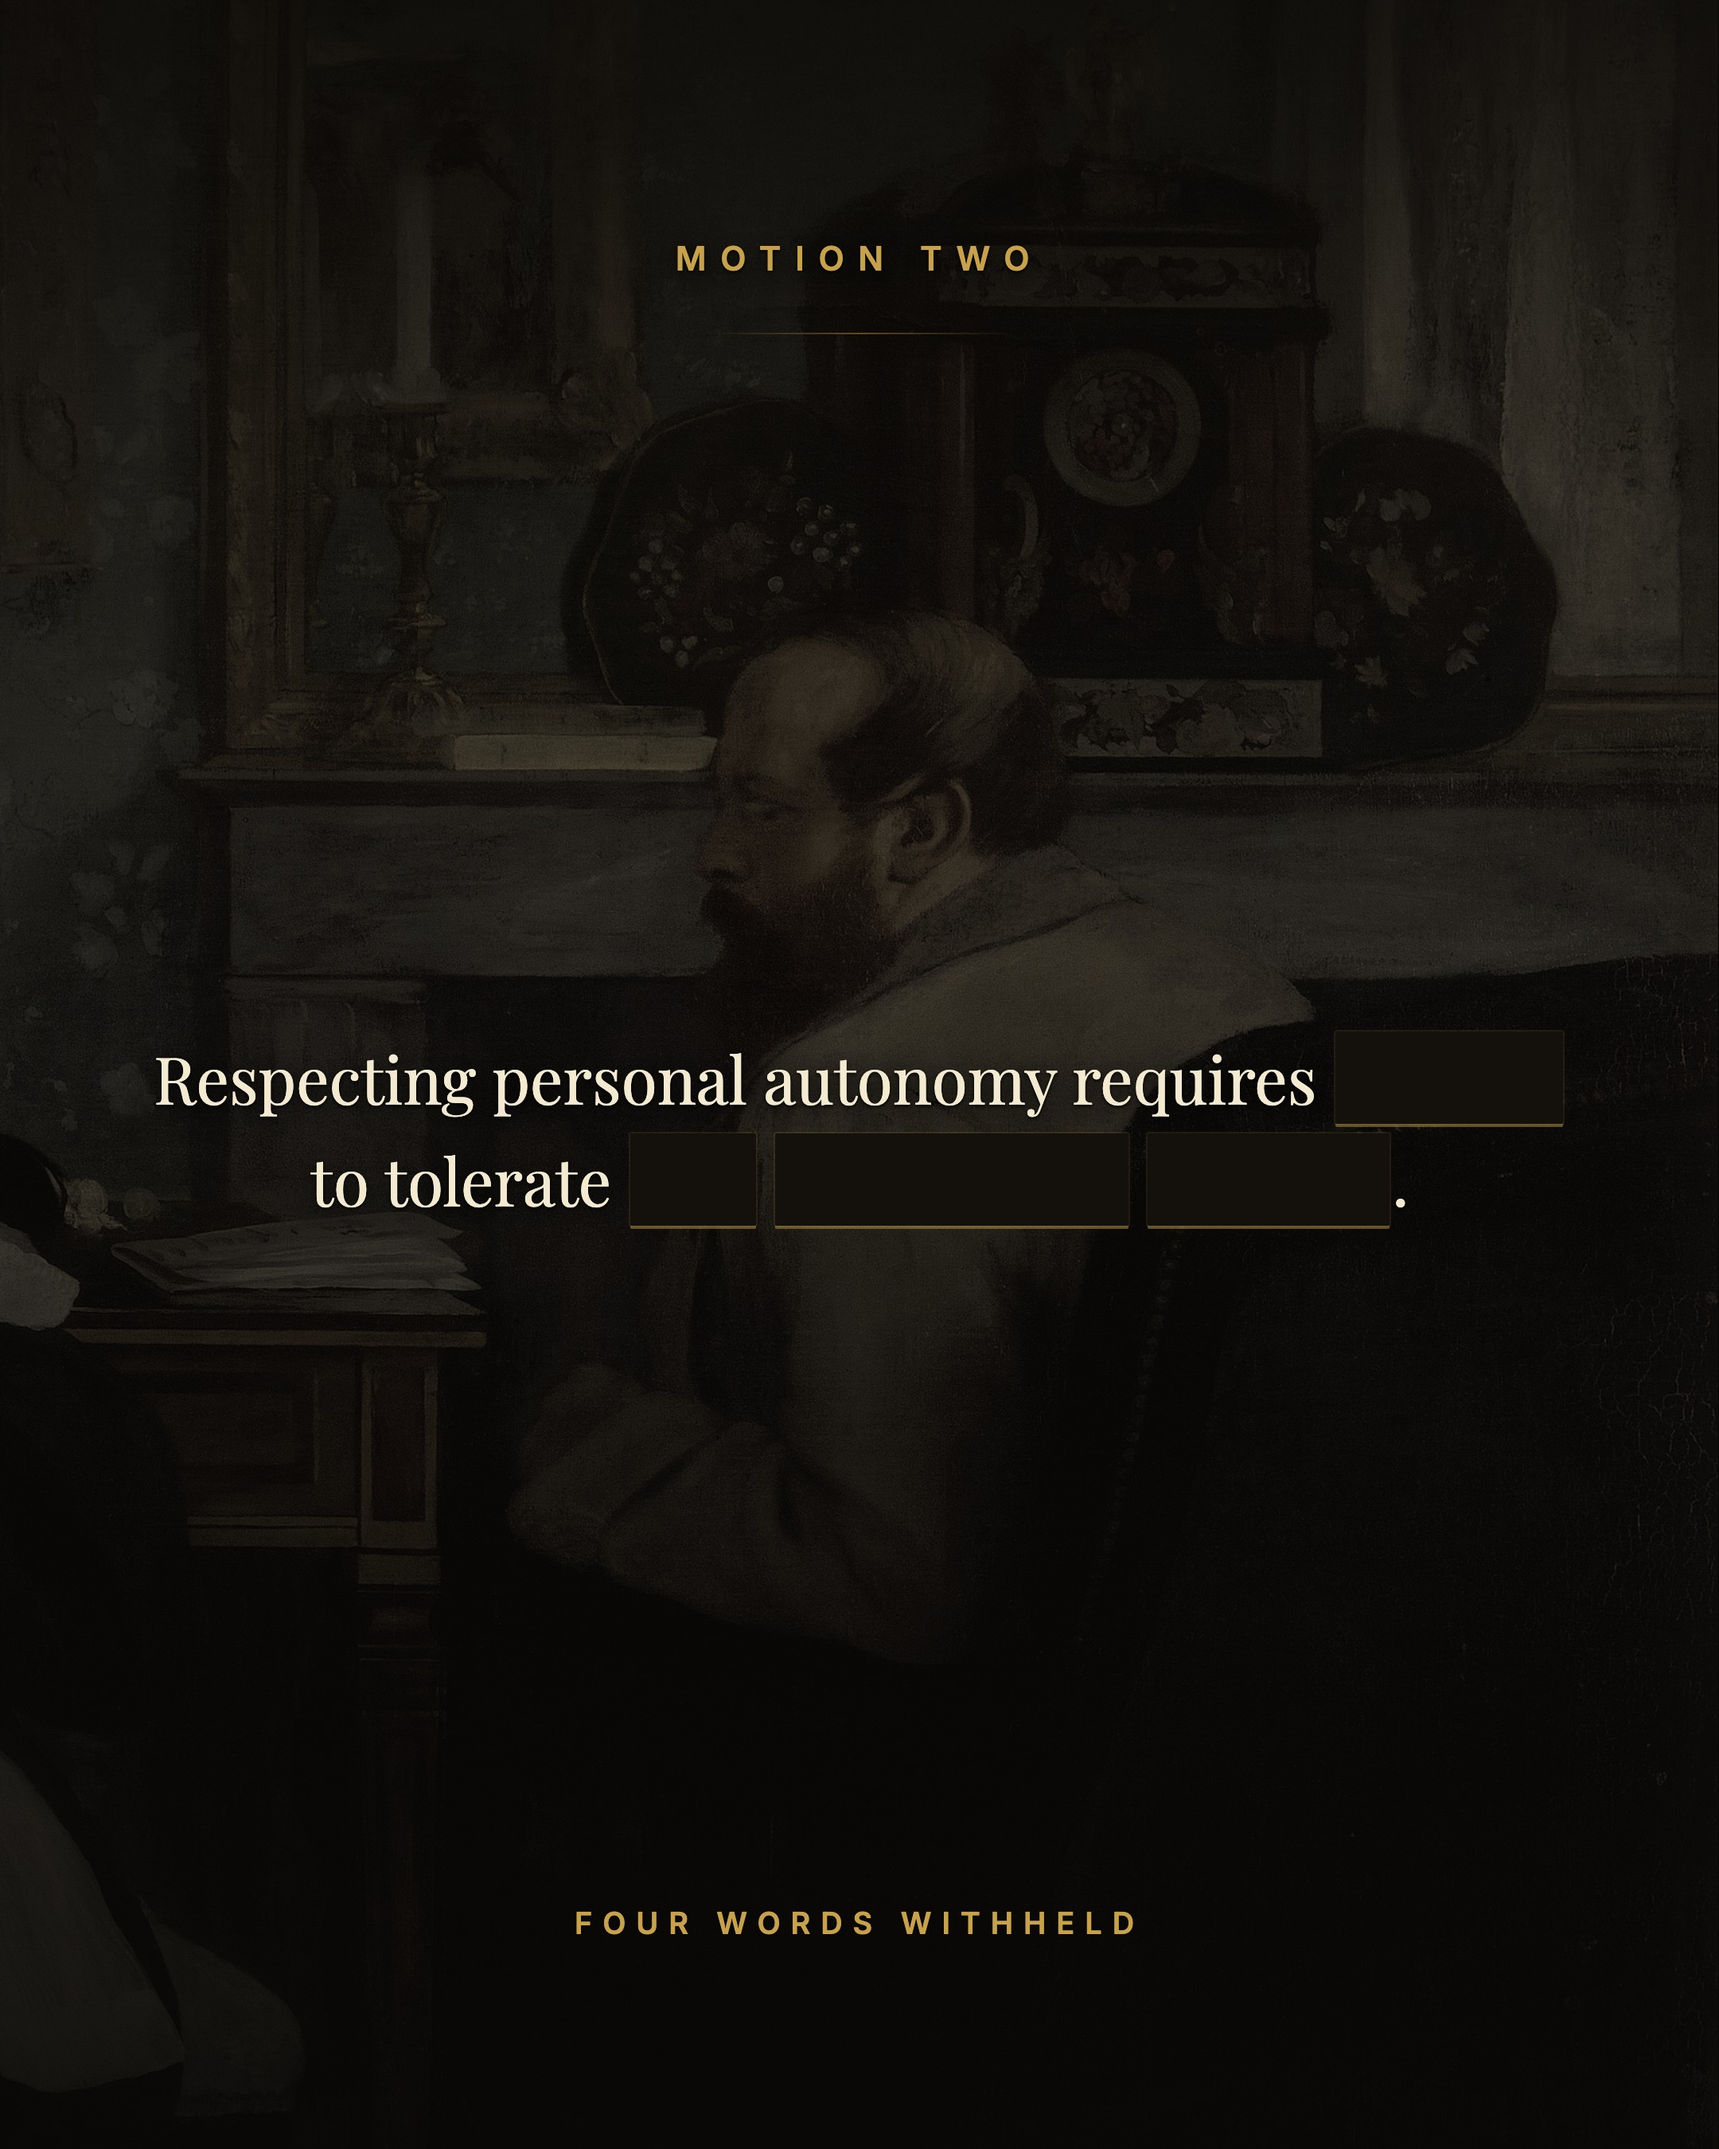
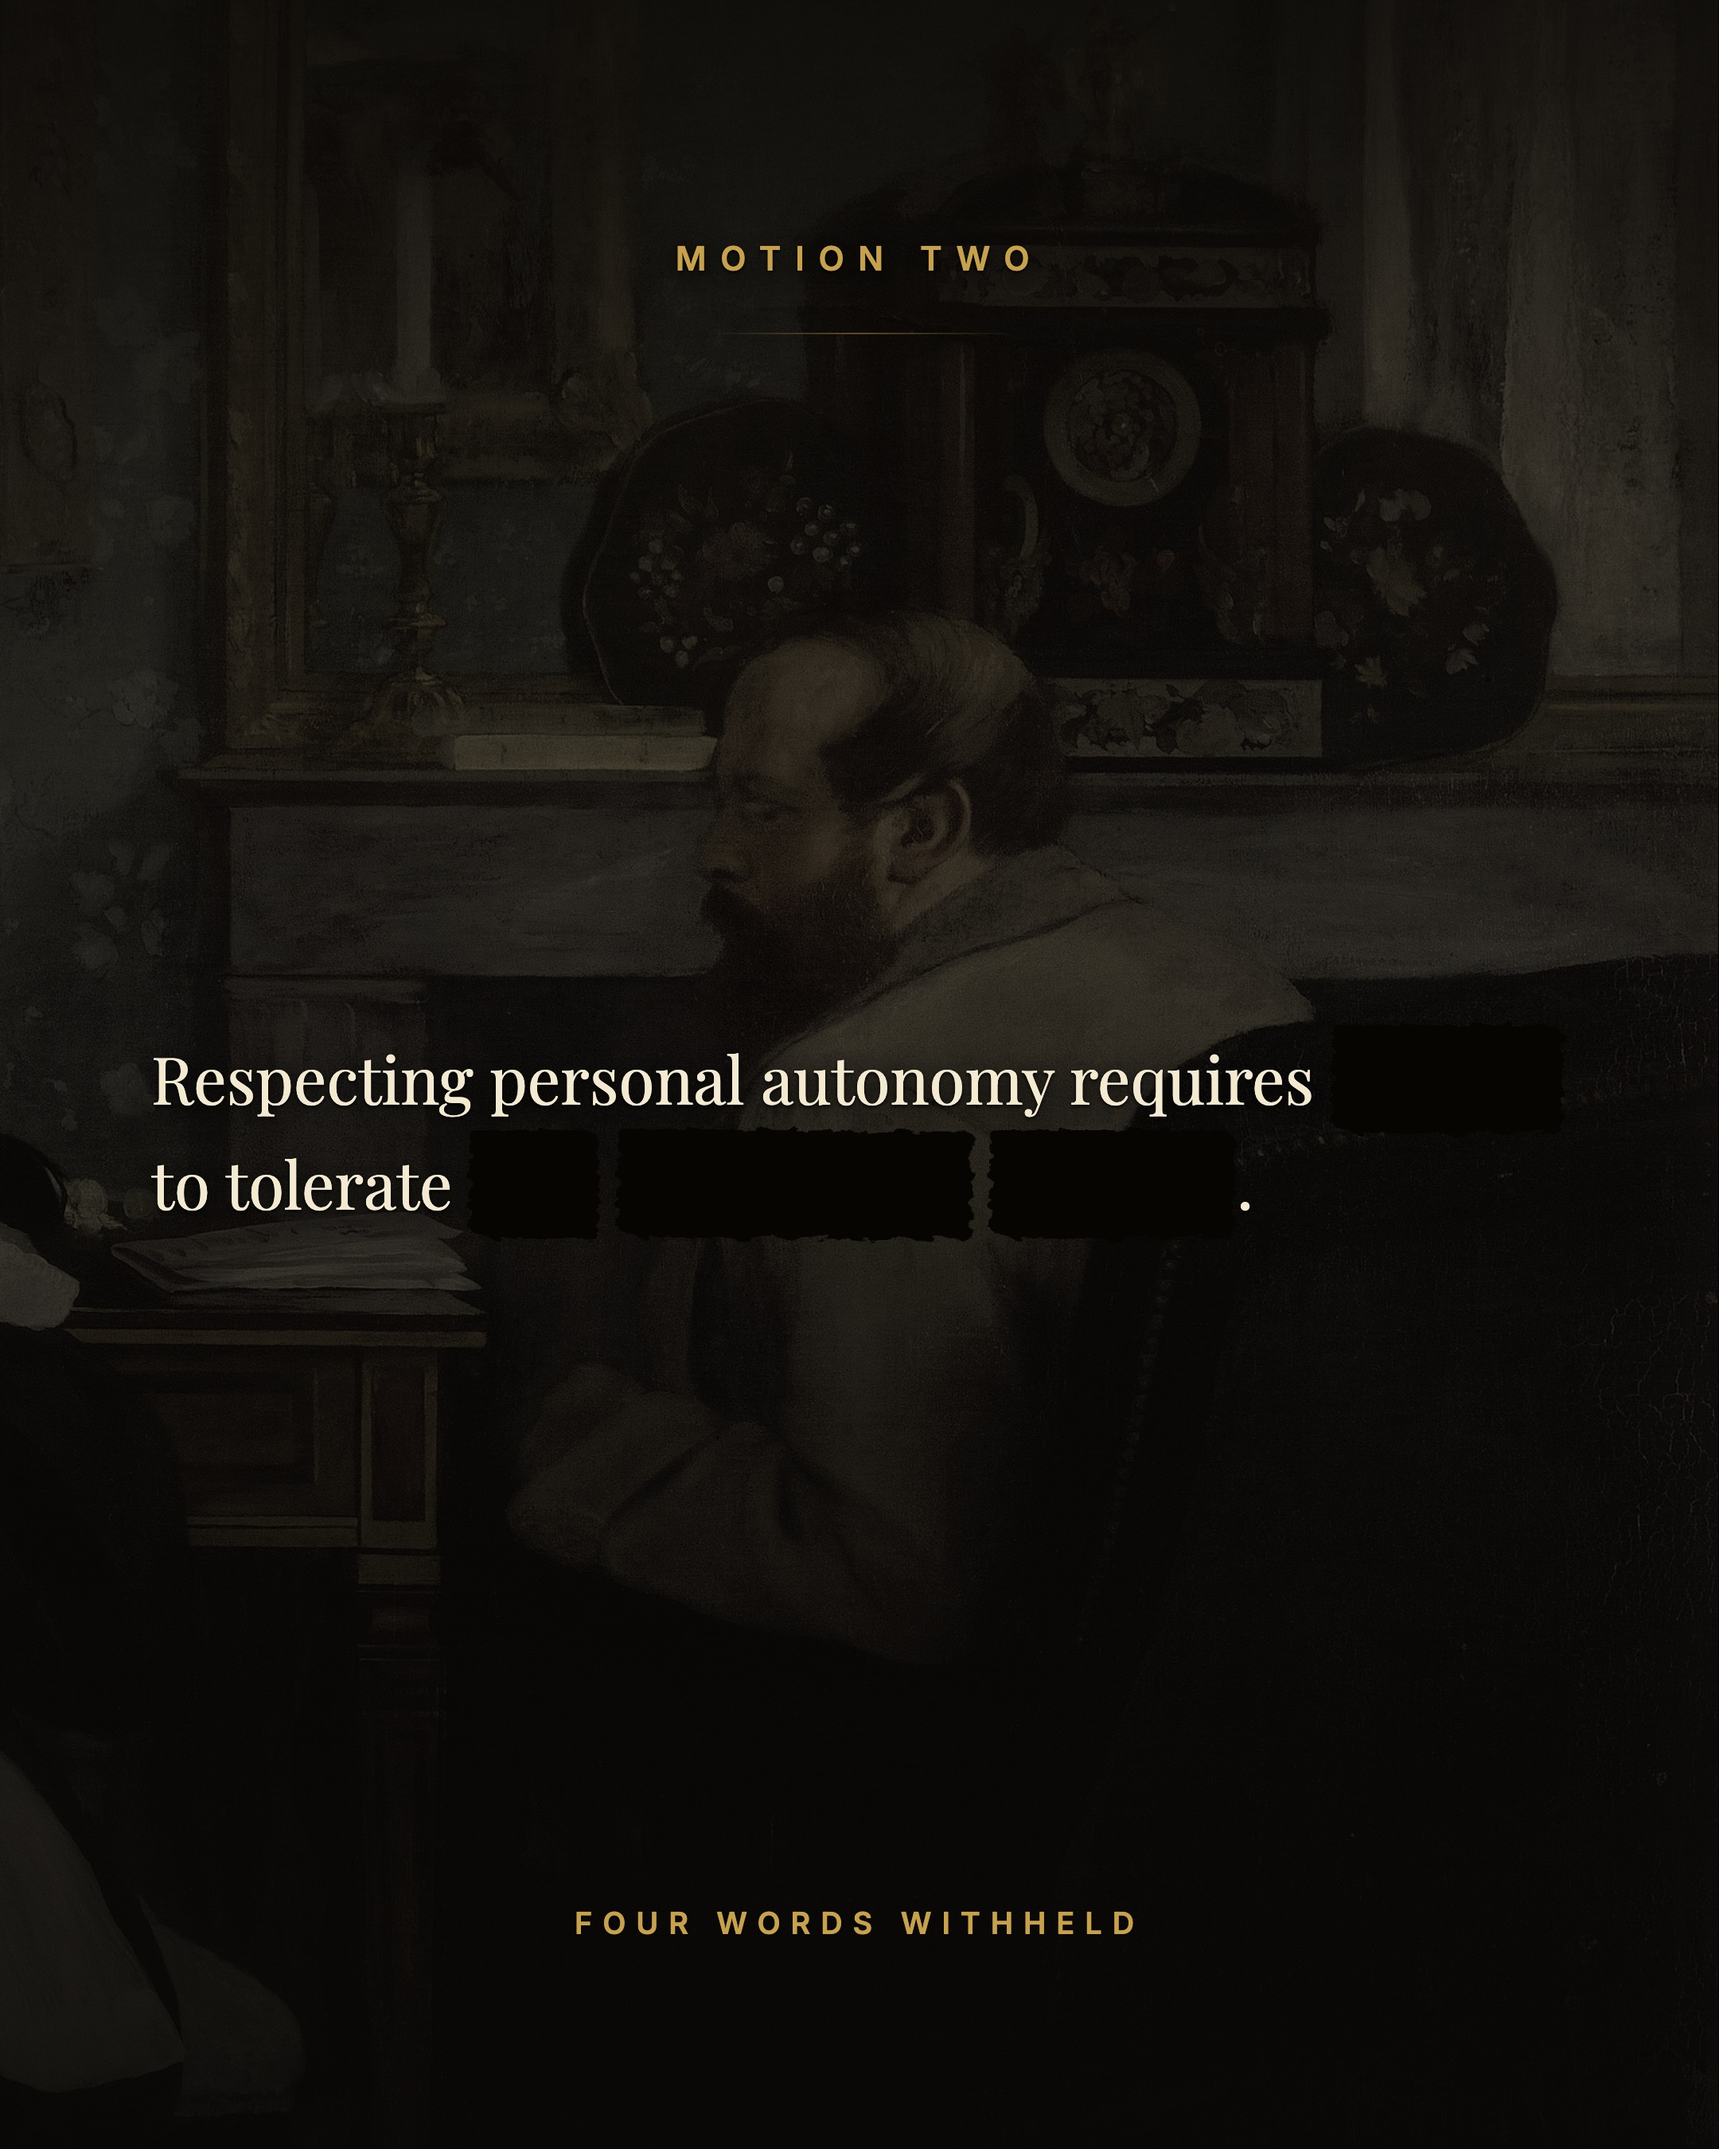
fix: make the redactions read as blackout ink
The bars were typeset rectangles with a gold rule under them, which reads as
a design element. The point is that somebody took a marker to this, so: no
border, no rule, a warm black rather than the cool one, uneven ends, and an
SVG turbulence filter chewing the edges so no two bars are the same shape.
Each bar is tilted a hair off true, deterministically by word length.

The motion text is left aligned now, unlike every other slide in the deck.
Centring a sentence with four black bars in it opens rivers around them, and
a document is not a centred thing anyway.

Note for whoever edits slides.css next: the earlier version of this rule
silently stopped applying because a comment was left unterminated above it,
and CSS error recovery ate the whole block. The bars vanished and the motion
published in full. Check an export after touching this file.

Changed region(s): [[0.0931, 0.4978, 0.7755, 0.5911]]

diff --git a/posters/works/2026-08-16-debate-9-autonomy/slides.tsx b/posters/works/2026-08-16-debate-9-autonomy/slides.tsx
@@ -290,10 +290,58 @@ function Detail({ src, focus }: { src: string; focus: Focus }) {
   );
 }
 
-/** A blacked out word. The bar is exactly as wide as the word it hides, so a
- *  reader can count the letters, which is most of the fun. */
+/** Roughens the edge of anything it is applied to. Turbulence displaced a few
+ *  pixels either way, which is what turns a rectangle into a marker stroke.
+ *  Rendered once per slide that needs it; the id is local to the slide. */
+function InkFilter() {
+  return (
+    <svg
+      xmlns="http://www.w3.org/2000/svg"
+      width="0"
+      height="0"
+      style={{ position: "absolute" }}
+      aria-hidden="true"
+    >
+      <defs>
+        <filter
+          id="pa-ink"
+          x="-14%"
+          y="-55%"
+          width="128%"
+          height="210%"
+          colorInterpolationFilters="sRGB"
+        >
+          <feTurbulence
+            type="fractalNoise"
+            baseFrequency="0.07 0.16"
+            numOctaves={4}
+            seed={11}
+            result="noise"
+          />
+          <feDisplacementMap
+            in="SourceGraphic"
+            in2="noise"
+            scale={9}
+            xChannelSelector="R"
+            yChannelSelector="G"
+          />
+        </filter>
+      </defs>
+    </svg>
+  );
+}
+
+/** A word struck out in ink. The hidden word still sets the width, so the bar
+ *  is exactly as long as what it hides and the letters can be counted, which
+ *  is most of the fun. Each bar is tilted a hair off true, deterministically
+ *  by word length, because nobody rules these by hand and gets them straight. */
 export function R({ children }: { children: string }) {
-  return <span className="pa-redacted">{children}</span>;
+  const tilt = ((children.length % 3) - 1) * 0.45;
+  return (
+    <span className="pa-redacted" style={{ transform: `rotate(${tilt}deg)` }}>
+      {children}
+    </span>
+  );
 }
 
 /** One motion, as a document with its load bearing words removed. */
@@ -316,6 +364,7 @@ export function Motion({
 }) {
   return (
     <div style={{ position: "absolute", inset: 0 }}>
+      <InkFilter />
       <div className="pa-field">
         <Detail src={src} focus={focus} />
         <ArtTone />
@@ -359,7 +408,10 @@ export function Motion({
             fontSize: 41,
             lineHeight: 1.56,
             color: "var(--cc-ivory)",
-            textAlign: "center",
+            /* left aligned, unlike every other slide. Centring a sentence with
+               four black bars in it opens rivers around them, and a document
+               is not a centred thing anyway. */
+            textAlign: "left",
             textShadow: SHADOW,
           }}
         >

diff --git a/posters/works/2026-08-16-debate-9-autonomy/slides.css b/posters/works/2026-08-16-debate-9-autonomy/slides.css
@@ -109,17 +109,25 @@
    text-shadow must be killed explicitly. The motion inherits the deck's
    layered shadow, and a shadow still paints under transparent text: the first
    cut of this slide had every redacted word plainly legible as its own
-   shadow. */
+   shadow.
+
+   It has to look struck out by hand, not typeset. A clean rectangle with a
+   gold rule under it reads as a design element, and the whole point is that
+   somebody took a marker to this. So: no border, no rule, a flat cool black
+   against the warm painting, and a turbulence filter chewing the edges so no
+   two bars are the same shape. The bar overshoots the word slightly, the way
+   a marker stroke does. */
 .pa-redacted {
+  display: inline-block;
   color: transparent;
   text-shadow: none;
-  background: var(--cc-obsidian);
-  padding: 0.04em 0.18em;
-  margin: 0 0.03em;
-  border-radius: 1px;
-  box-shadow:
-    0 2px 0 rgba(200, 162, 74, 0.45),
-    0 0 0 1px rgba(200, 162, 74, 0.12);
+  background: #070502;
+  padding: 0.05em 0.2em;
+  margin: 0 0.02em -0.05em;
+  /* uneven ends, so the stroke starts and stops like a hand did it. This does
+     the work on its own if the filter below is ever unavailable. */
+  border-radius: 5px 11px 6px 13px / 10px 5px 12px 6px;
+  filter: url(#pa-ink);
 }
 
 /* Degas's Bellelli interior is a cool grey room, which goes dead under the
